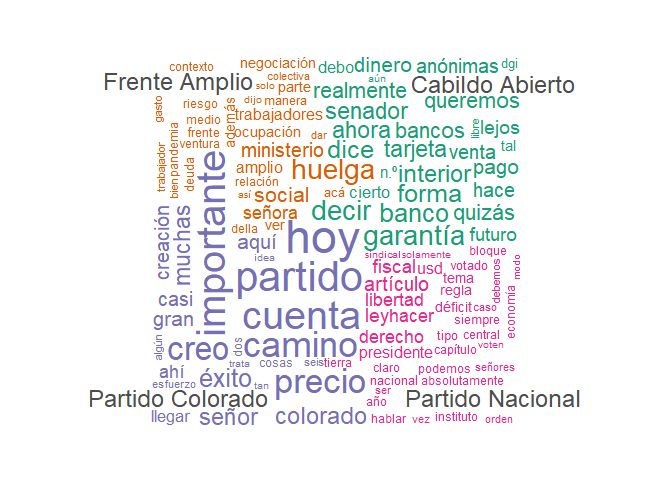
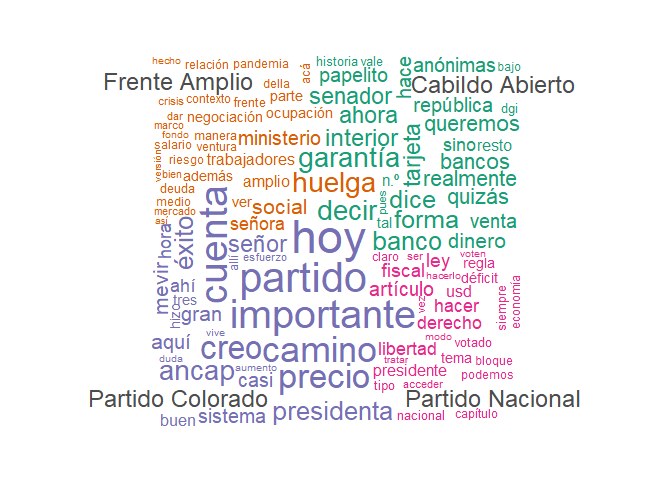
cambios_quanteda

Changed region(s): [[0.2188, 0.0938, 0.7812, 0.9062]]

diff --git a/README.md b/README.md
@@ -3,6 +3,8 @@
 
 *Nicolás Schmidt*
 
+*Elina Gómez*
+
 ![visitors](https://visitor-badge.glitch.me/badge?page_id=Nicolas-Schmidt.speech-ejemplos)
 
 ### Índice
@@ -1017,11 +1019,6 @@ necesito obtener información ordenada de todos los diarios de sesión de
 la Cámara de Representantes, entre el 20-11-2014 y el 20-11-2020, lo
 cual incluye sesiones correspondientes a tres legislaturas diferentes.
 
-``` r
-
-sesiones <- speech::speech_url(chamber = "D", from = "20-11-2014", to = "20-11-2020")
-```
-
 Esta función busca simplificar el procedimiento de obtención de URL o
 descarga de diarios de sesión de forma manual, ya que automatiza la
 descarga de las mismas.
@@ -1057,23 +1054,23 @@ conectores, artículos y palabras de menos de tres caracteres, eliminar
 los nombres de los legisladores, las puntuaciones y los números.
 
 ``` r
-corpus_intervenciones <- quanteda::corpus(intervenciones,text_field = "speech")
-dfm_intervenciones <- quanteda::dfm(corpus_intervenciones,
-             stem = FALSE,
-             tolower = TRUE,
-             remove = c(quanteda::stopwords("spanish"),tolower(intervenciones$legislator)), 
-             remove_punct = TRUE, 
-             remove_numbers = TRUE, 
-             verbose = FALSE,
-             groups = "party")
-dfm_intervenciones <- quanteda::dfm_remove(dfm_intervenciones,min_nchar=3)
+library(dplyr)
+dfm_intervenciones <- quanteda::dfm(quanteda::tokens(intervenciones$speech,
+                                    remove_punct = TRUE,
+                                    remove_numbers = TRUE),
+                                    tolower=TRUE,
+                                    verbose = FALSE) %>%
+  quanteda::dfm_remove(pattern = c(quanteda::stopwords("spanish"),tolower(intervenciones$legislator)),min_nchar=3)%>%
+  quanteda::dfm_group(groups = intervenciones$party)
 ```
 
 En segundo lugar, generamos una nube de palabras segmentada por partido
-al que pertenece el legislador:
+al que pertenece el legislador. A partir del análisis de los términos
+más frecuentes se observan diferencias en el foco de la discusión de la
+Ley entre los partidos:
 
 ``` r
-quanteda::textplot_wordcloud(dfm_intervenciones, min.count = 2,max_words = 500,
+quanteda.textplots::textplot_wordcloud(dfm_intervenciones, min.count = 2,max_words = 500,
 random.order = FALSE,colors = RColorBrewer::brewer.pal(8,"Dark2"),comparison = T)
 ```
 
@@ -1087,7 +1084,7 @@ palabras con mayor correlación con dicho término.
 
 ``` r
 
-quanteda::textstat_simil(dfm_intervenciones,selection = "luc",
+quanteda.textstats::textstat_simil(dfm_intervenciones,selection = "luc",
 method = "correlation",margin = "features")%>%
   as.data.frame()%>%
   dplyr::arrange(-correlation)%>%
@@ -1118,7 +1115,9 @@ construir un nuevo corpus y realizar un análisis focalizado y/o
 comparativo.
 
 ``` r
-quanteda::kwic(corpus_intervenciones, 
+quanteda::kwic(quanteda::tokens(intervenciones$speech,
+                                    remove_punct = TRUE,
+                                    remove_numbers = TRUE), 
 pattern = quanteda::phrase(c("ley de urgente consideración")),
 window = 15)
 ```
@@ -1144,7 +1143,7 @@ intervenciones %>%
 ggplot2::ggplot(ggplot2::aes(x=factor(party, level = c("Frente Amplio","Cabildo Abierto","Partido Colorado","Partido Nacional")), y=Sentiment_syuzhet, color=party))+
   ggplot2::geom_point(size=5, alpha=0.8) +
   ggplot2::ggtitle("Análisis de sentimiento por Partido",subtitle = "Discusión sobre Ley de Urgente Consideración (LUC) en la Cámara de Senadores (05/06/2020)")+
-  ggplot2::theme(axis.title.y =element_blank() , axis.text.x =element_blank(),axis.title.x =element_blank(),legend.title=element_blank()) 
+  ggplot2::theme(axis.title.y =ggplot2::element_blank() , axis.text.x =ggplot2::element_blank(),axis.title.x =ggplot2::element_blank(),legend.title=ggplot2::element_blank()) 
 ```
 
 <img src="figures/README-unnamed-chunk-28-1.png" width="80%" />
